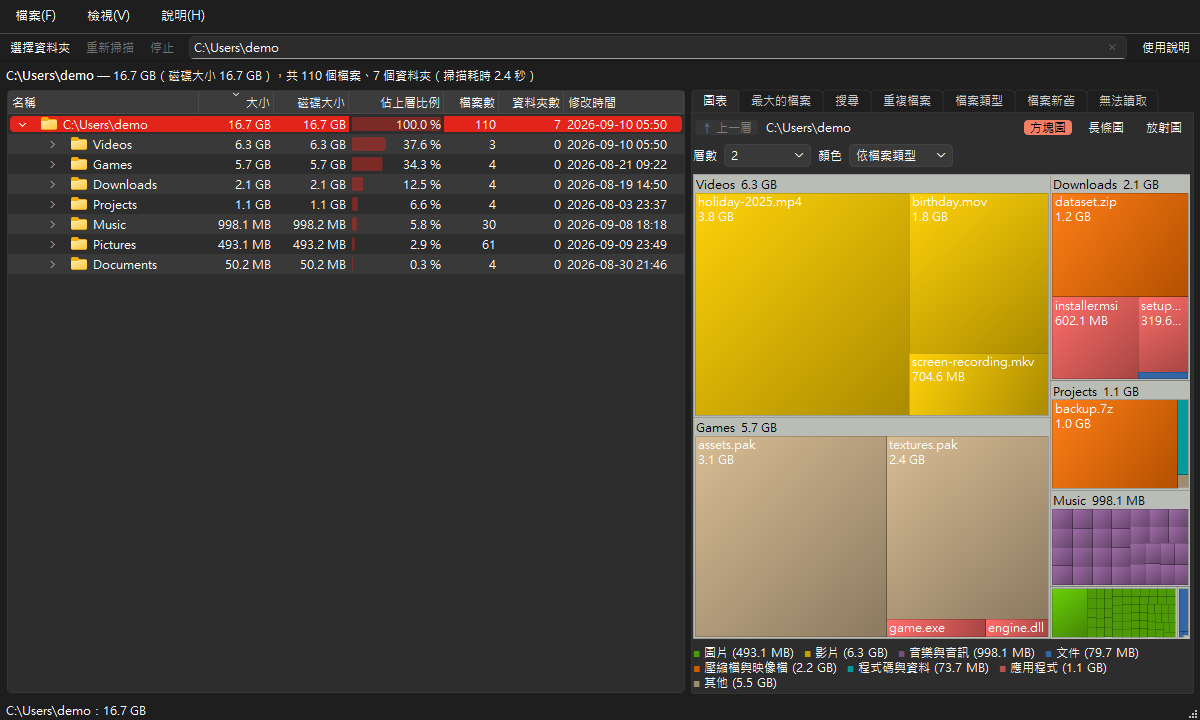
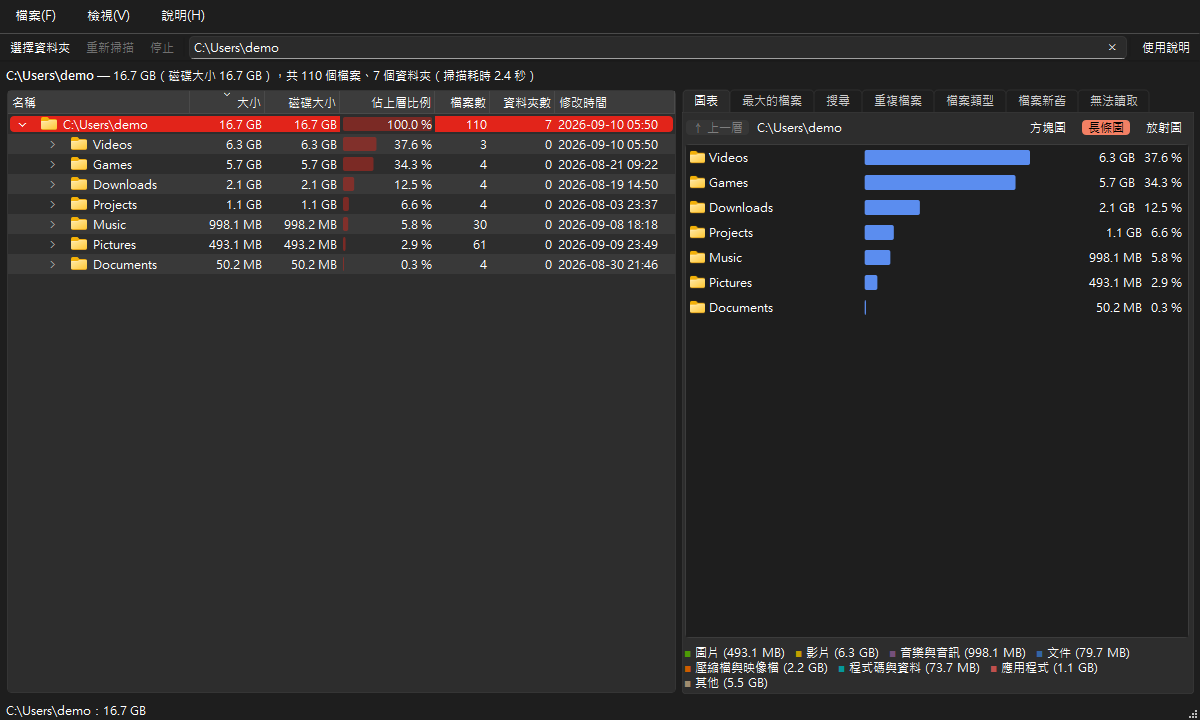
The Chart tab opens on the bar chart
The bars are the easiest view to read, so they come first; a view chosen
once is still remembered. Screenshots regenerated.

docs/updates U-20260926-30.

diff --git a/je_file_tree/gui/strings.py b/je_file_tree/gui/strings.py
@@ -281,7 +281,8 @@ clusters, so usually a little more; less for compressed files, nothing for files
 <i>% of parent</i> bar (how much of
 the folder above it this entry takes), how many files and folders it holds, and when something in it
 last changed. Click a column title to sort by it.</li>
-<li><b>Chart</b>: switch between three views of the same folder in the corner of the tab. The
+<li><b>Chart</b>: switch between three views of the same folder in the corner of the tab (the bars come
+first, and FileTree remembers the one you chose). The
 <i>Treemap</i> draws every file as a rectangle, the bigger the file the bigger the rectangle; each folder
 has a strip with its name and size. <i>Levels</i> sets how many levels are drawn, <i>Colours</i> colours by
 file type (the legend is under it) or by top-level folder. <i>Bars</i> gives each entry of the folder one
@@ -613,7 +614,7 @@ ZH_TW: dict[str, str] = {
 <li><b>資料夾樹</b>（左邊）：每個資料夾或檔案的大小、<i>磁碟大小</i>（實際佔用的磁碟空間：以整個叢集計算，
 通常比大小多一點；壓縮檔案較少，只存在雲端的檔案是 0）、<i>佔上層比例</i>長條（它佔上一層資料夾多少空間）、
 裡面有幾個檔案和資料夾，以及裡面最近一次變動的時間。按欄位標題可以依該欄排序。</li>
-<li><b>圖表</b>：在分頁角落切換同一個資料夾的三種圖。<i>方塊圖</i>把每個檔案畫成一個方塊，檔案越大、方塊越大，
+<li><b>圖表</b>：在分頁角落切換同一個資料夾的三種圖（一開始是長條圖，之後會記住你選的）。<i>方塊圖</i>把每個檔案畫成一個方塊，檔案越大、方塊越大，
 每個資料夾頂端有寫著名稱和大小的標題列；<i>層數</i>決定要畫幾層，<i>顏色</i>可以依檔案類型（圖例在下方）或依最上層的資料夾上色。<i>長條圖</i>替資料夾裡每個項目畫一條長條，由大到小，附大小與比例，最容易讀出精確的數字。<i>放射圖</i>把目前資料夾放在中心，每深一層就是外面一圈，按中心回上一層。
 按一下可以在資料夾樹中找到它，按兩下資料夾可以進入，按<i>上一層</i>回去。</li>
 <li><b>最大的檔案</b>：整個掃描範圍內最大的 1,000 個檔案。在篩選框輸入文字可以縮小清單，
@@ -934,7 +935,7 @@ ZH_CN: dict[str, str] = {
 <li><b>文件夹树</b>（左边）：每个文件夹或文件的大小、<i>占用空间</i>（实际占用的磁盘空间：按整个簇计算，
 通常比大小多一点；压缩文件较少，只在云端的文件是 0）、<i>占上级比例</i>条（它占上一级文件夹多少空间）、
 里面有几个文件和文件夹，以及里面最近一次变动的时间。点列标题可以按该列排序。</li>
-<li><b>图表</b>：在选项卡角落切换同一个文件夹的三种图。<i>方块图</i>把每个文件画成一个方块，文件越大、方块越大，
+<li><b>图表</b>：在选项卡角落切换同一个文件夹的三种图（一开始是条形图，之后会记住你选的）。<i>方块图</i>把每个文件画成一个方块，文件越大、方块越大，
 每个文件夹顶部有写着名称和大小的标题栏；<i>层数</i>决定要画几层，<i>颜色</i>可以按文件类型（图例在下方）或按最上层的文件夹上色。<i>条形图</i>给文件夹里每个项目画一个条形，从大到小，附大小与比例，最容易读出精确的数字。<i>旭日图</i>把当前文件夹放在中心，每深一层就是外面一圈，点中心回上一级。
 单击可以在文件夹树中找到它，双击文件夹可以进入，点<i>上一级</i>回去。</li>
 <li><b>最大的文件</b>：整个扫描范围内最大的 1,000 个文件。在筛选框输入文字可以缩小列表，

diff --git a/test/test_gui.py b/test/test_gui.py
@@ -625,11 +625,12 @@ def test_the_treemap_levels_and_colours(qapp: QApplication, sample_tree: Path) -
 
 def test_the_chart_mode_is_remembered(window: MainWindow, qapp: QApplication, sample_tree: Path) -> None:
     _scanned(window, qapp, sample_tree)
-    assert window.results.charts.mode == TREEMAP
-    window.results._chart_buttons[BARS].click()
-    assert window.results.charts.mode == BARS
-    assert window.settings.value("chart_mode") == BARS
+    assert window.results.charts.mode == BARS, "the bars come first"
+    assert window.results._chart_buttons[BARS].isChecked()
+    assert window.results._treemap_options.isHidden()
     window.results._chart_buttons[TREEMAP].click()
+    assert window.results.charts.mode == TREEMAP
+    assert window.settings.value("chart_mode") == TREEMAP
     assert not window.results._treemap_options.isHidden(), "the treemap options come with the treemap"
     window.results._levels_combo.setCurrentIndex(window.results._levels_combo.findData(3))
     window.results._colours_combo.setCurrentIndex(window.results._colours_combo.findData(BY_FOLDER))

diff --git a/je_file_tree/gui/charts.py b/je_file_tree/gui/charts.py
@@ -17,6 +17,7 @@ from je_file_tree.gui.treemap_widget import TreemapWidget
 
 TREEMAP, BARS, SUNBURST = "treemap", "bars", "sunburst"
 MODES = (TREEMAP, BARS, SUNBURST)
+DEFAULT_MODE = BARS  # the easiest to read; the owner chose it as the first view
 
 
 class ChartStack(QStackedWidget):
@@ -45,6 +46,7 @@ class ChartStack(QStackedWidget):
             chart.view_root_changed.connect(self._follow)
         self._root: Node | None = None
         self._moving = False
+        self.set_mode(DEFAULT_MODE)
 
     @property
     def mode(self) -> str:

diff --git a/README/README_zh-TW.md b/README/README_zh-TW.md
@@ -4,14 +4,14 @@
 
 [English](../README.md) | [繁體中文](README_zh-TW.md) | [简体中文](README_zh-CN.md)
 
-![FileTree 顯示一個使用者資料夾：左邊是資料夾樹，右邊是方塊圖](../docs/images/main_window_zh-TW.png)
+![FileTree 顯示一個使用者資料夾：左邊是資料夾樹，右邊是長條圖](../docs/images/main_window_zh-TW.png)
 
 ## 功能
 
 - **按一下就開始**：選一個資料夾、按一下磁碟、把資料夾拖曳到視窗上，或貼上路徑。
 - **快速、邊掃邊看**：同時讀取多個資料夾；在 SSD 上約 74 萬個檔案與資料夾只要 6–8 秒。掃描時資料夾樹就會陸續出現，最大的資料夾排在最前面；按停止會留下已經讀到的部分。
 - **資料夾樹**：由大到小排列，每一列有它實際佔用的磁碟空間、顯示它佔所在資料夾比例的長條，還有檔案數、資料夾數與裡面最近一次變動的時間。
-- **圖表**，三種看資料夾的方式，在分頁角落切換：**方塊圖**（每個檔案一個方塊，大小代表佔用的空間）、**長條圖**（資料夾裡每個項目一條長條，由大到小，附大小與比例，最容易讀出精確的數字）和**放射圖**（目前資料夾在中心，每深一層就是外面一圈，整個層次一眼看完）。按一下可以在資料夾樹中找到它，按兩下可以進入那個資料夾，三種圖會一起跟著。
+- **圖表**，三種看資料夾的方式，在分頁角落切換（一開始是長條圖）：**方塊圖**（每個檔案一個方塊，大小代表佔用的空間）、**長條圖**（資料夾裡每個項目一條長條，由大到小，附大小與比例，最容易讀出精確的數字）和**放射圖**（目前資料夾在中心，每深一層就是外面一圈，整個層次一眼看完）。按一下可以在資料夾樹中找到它，按兩下可以進入那個資料夾，三種圖會一起跟著。
 - **最大的檔案**：整個掃描範圍內最大的 1,000 個檔案，附篩選框。
 - **搜尋**（Ctrl+F）：依名稱，或 `*.mp4` 這類樣式，在整個掃描範圍內找檔案和資料夾。
 - **重複檔案**：把內容相同的檔案分組，並顯示多餘的副本佔了多少空間；按一下就能選取多餘的副本，移到資源回收筒。

diff --git a/README/README_zh-CN.md b/README/README_zh-CN.md
@@ -4,14 +4,14 @@
 
 [English](../README.md) | [繁體中文](README_zh-TW.md) | [简体中文](README_zh-CN.md)
 
-![FileTree 显示一个用户文件夹：左边是文件夹树，右边是方块图](../docs/images/main_window_zh-CN.png)
+![FileTree 显示一个用户文件夹：左边是文件夹树，右边是条形图](../docs/images/main_window_zh-CN.png)
 
 ## 功能
 
 - **点一下就开始**：选一个文件夹、点一下磁盘、把文件夹拖到窗口上，或粘贴路径。
 - **快速、边扫边看**：同时读取多个文件夹；在 SSD 上约 74 万个文件与文件夹只要 6–8 秒。扫描时文件夹树就会陆续出现，最大的文件夹排在最前面；点停止会留下已经读到的部分。
 - **文件夹树**：从大到小排列，每一行有它实际占用的磁盘空间、显示它占所在文件夹比例的条形，还有文件数、文件夹数与里面最近一次变动的时间。
-- **图表**，三种看文件夹的方式，在选项卡角落切换：**方块图**（每个文件一个方块，大小代表占用的空间）、**条形图**（文件夹里每个项目一个条形，从大到小，附大小与比例，最容易读出精确的数字）和**旭日图**（当前文件夹在中心，每深一层就是外面一圈，整个层次一眼看完）。单击可以在文件夹树中找到它，双击可以进入那个文件夹，三种图会一起跟着。
+- **图表**，三种看文件夹的方式，在选项卡角落切换（一开始是条形图）：**方块图**（每个文件一个方块，大小代表占用的空间）、**条形图**（文件夹里每个项目一个条形，从大到小，附大小与比例，最容易读出精确的数字）和**旭日图**（当前文件夹在中心，每深一层就是外面一圈，整个层次一眼看完）。单击可以在文件夹树中找到它，双击可以进入那个文件夹，三种图会一起跟着。
 - **最大的文件**：整个扫描范围内最大的 1,000 个文件，附筛选框。
 - **搜索**（Ctrl+F）：按名称，或 `*.mp4` 这类模式，在整个扫描范围内找文件和文件夹。
 - **重复文件**：把内容相同的文件分组，并显示多余的副本占了多少空间；点一下就能选中多余的副本，移到回收站。

diff --git a/docs/updates/2026-09.md b/docs/updates/2026-09.md
@@ -204,3 +204,9 @@
 - **How**: `core.search.Query` and `accepts` (`1e5d376`); `je_file_tree/gui/search_filters.py` (`SearchFilters`: the five lists, `conditions()` as `Query` fields, `state()` / `apply()` for saved searches); `SearchPanel.query`, `save`, `delete_saved`, `set_saved`, `saved_changed`; the main window reads and writes the setting.
 - **Measured** (a built tree of 300,000 files, best of five, against the committed search): a name alone 178 ms against 181 ms before (it keeps the direct test of names), a name with a size 179 ms, size, age and type together 219 ms. A first version that wrapped every test in a lambda and `all()` took 196 ms for a name alone and was replaced.
 - **Files**: `je_file_tree/core/search.py`, `je_file_tree/gui/{search_filters,search_panel,scan_worker,main_window,strings}.py`, `test/test_search.py`, `test/test_gui.py`, `README.md`, `README/README_zh-*.md`, `architecture.md`.
+
+## U-20260926-30 · 2026-09-26 · The Chart tab opens on the bar chart · #change #gui
+
+- **What** (owner's request: the bars by default instead of the treemap): the Chart tab opens on the bar chart (`charts.DEFAULT_MODE = BARS`); a view chosen once is still remembered (`chart_mode`), so only a first start, or settings without that key, show the bars.
+- **Docs**: the READMEs (three languages) say the bars come first and their screenshots, regenerated, show the bar chart (the pictures' descriptions say so); the in-app help says the same; `architecture.md` names `DEFAULT_MODE`.
+- **Files**: `je_file_tree/gui/{charts,strings}.py`, `test/test_gui.py` (the remembered-view test starts from the bars), `README.md`, `README/README_zh-*.md`, `docs/images/main_window_*.png`, `architecture.md`.

diff --git a/README.md b/README.md
@@ -7,7 +7,7 @@ the window.
 
 [English](README.md) | [繁體中文](README/README_zh-TW.md) | [简体中文](README/README_zh-CN.md)
 
-![FileTree showing a home folder: the folder tree on the left, the treemap on the right](docs/images/main_window_en.png)
+![FileTree showing a home folder: the folder tree on the left, the bar chart on the right](docs/images/main_window_en.png)
 
 ## Features
 
@@ -17,7 +17,7 @@ the window.
   what was read so far.
 - **Folder tree** sorted largest first, with the space each entry takes on disk, a bar showing its share of
   its folder, file and folder counts, and the last change inside it.
-- **Chart**, three ways to see a folder, switched in the corner of the tab: the **treemap** (every file a
+- **Chart**, three ways to see a folder, switched in the corner of the tab (the bars first): the **treemap** (every file a
   rectangle sized by the space it takes), **bars** (one bar per entry of the folder, largest first, with
   its size and share: easiest to read exactly) and the **sunburst** (the folder in the centre, each deeper
   level a ring: the whole hierarchy at a glance). Click to find an entry in the tree, double-click to go

diff --git a/architecture.md b/architecture.md
@@ -69,7 +69,7 @@ refuses stay and are named in a warning.
 **Chart tab.** `ChartStack` holds the treemap, the bar chart (`BarChartWidget`: the `MAX_BARS` largest
 entries of one folder, the rest on one line) and the sunburst (`SunburstWidget`: `core.sunburst.layout`
 gives arcs as fractions of the circle, at most `RINGS` rings, arcs thinner than `min_span` and past
-`max_segments` left out, drawn into a cached pixmap) and shows one at a time; the mode is saved in the settings
+`max_segments` left out, drawn into a cached pixmap) and shows one at a time, the bars first (`charts.DEFAULT_MODE`); the mode is saved in the settings
 (`chart_mode`). Both offer the same interface (`set_view_root`, `zoom_out`, `set_selected`, `invalidate`,
 `node_clicked`, `view_root_changed`, `context_menu_requested`); when one moves to another folder the stack
 moves the others and signals the page once, so the results page drives the stack as a single chart.

diff --git a/docs/updates/README.md b/docs/updates/README.md
@@ -64,6 +64,7 @@ In the same commit: delete the item from `progress.md`, add a `#done` entry here
 
 | ID | Date | Title | Tags | Batch |
 |---|---|---|---|---|
+| U-20260926-30 | 2026-09-26 | The Chart tab opens on the bar chart | #change #gui | [2026-09](2026-09.md) |
 | U-20260926-29 | 2026-09-26 | Search conditions (size, age, type, kind) and saved searches | #done #gui #core | [2026-09](2026-09.md) |
 | U-20260926-28 | 2026-09-26 | Taskbar: FileTree's own button and icon when run from Python | #fix #windows #gui | [2026-09](2026-09.md) |
 | U-20260926-27 | 2026-09-26 | Largest files, types and ages for the selected folder | #done #gui | [2026-09](2026-09.md) |
